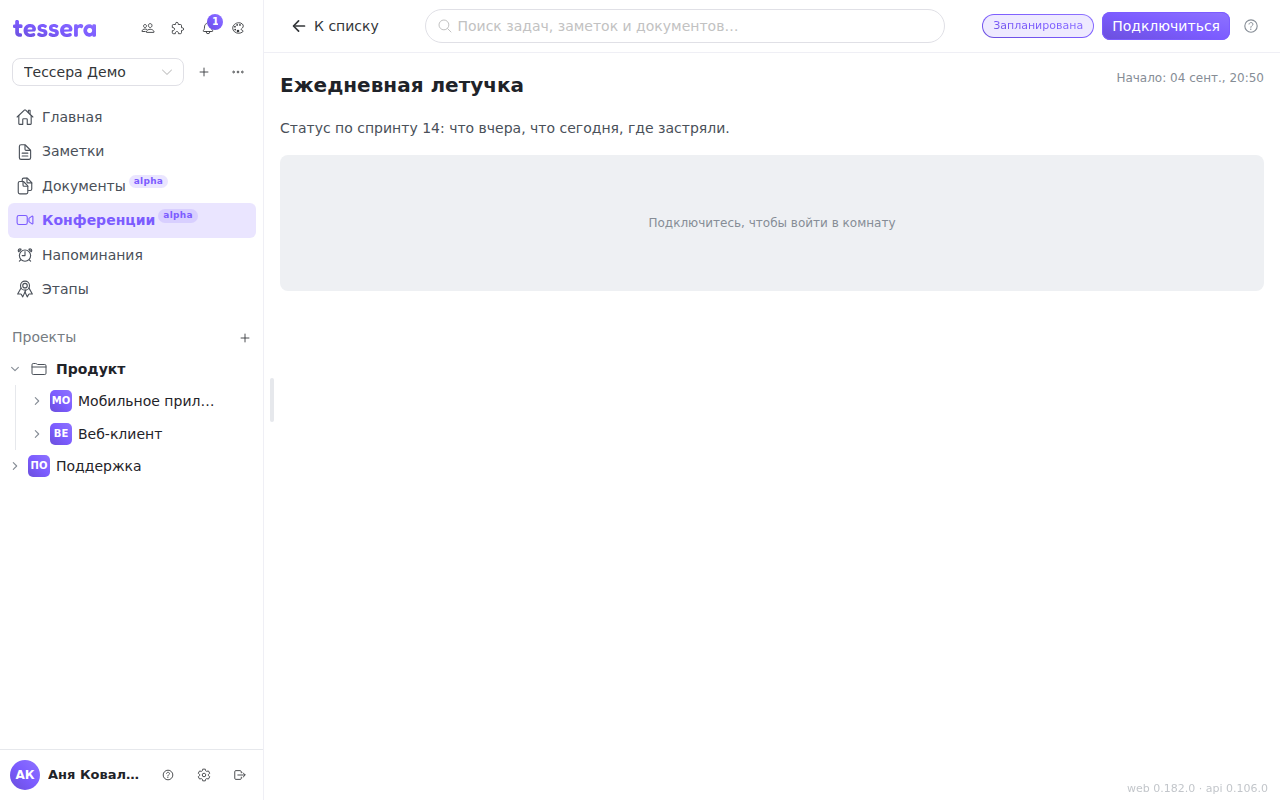
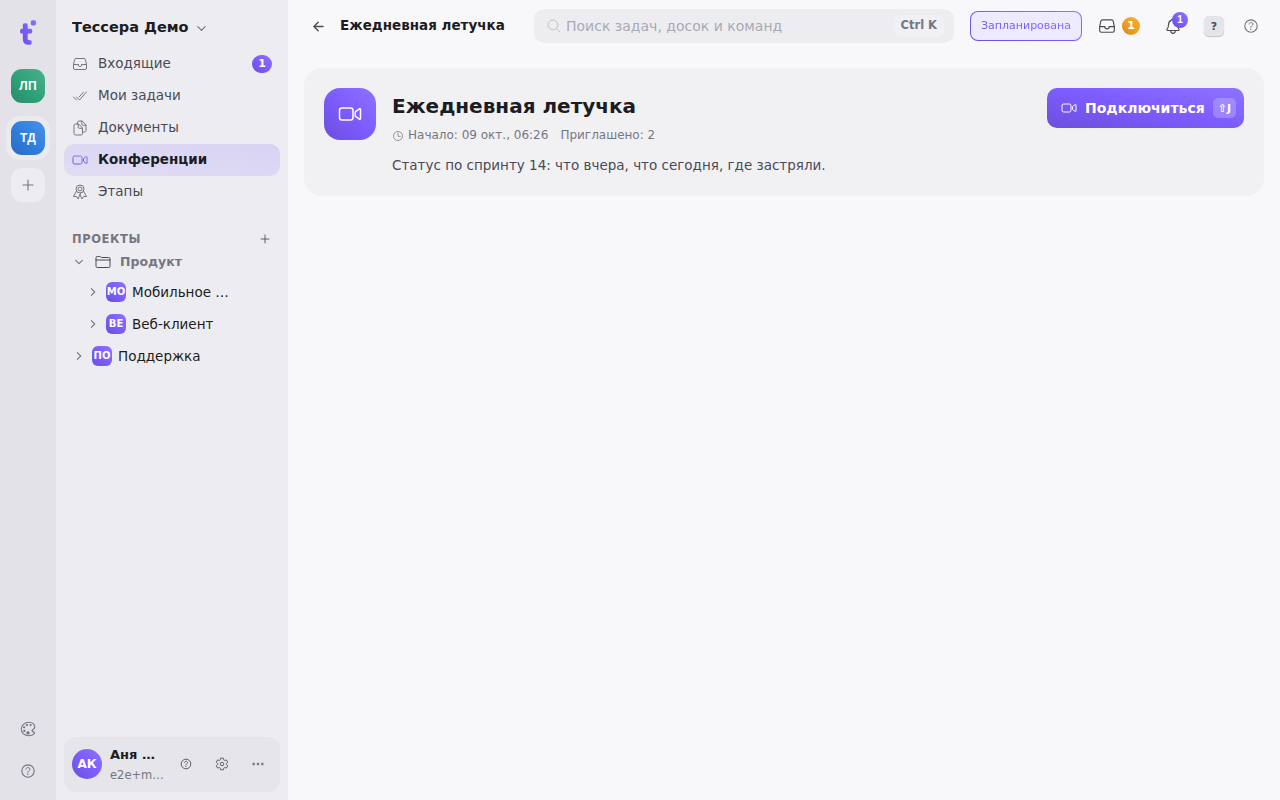
docs(help): конференции, колокольчик, справка (F1, «Статья помогла?») и раздел «Справка» админки на языке v2 — статьи и скриншоты (#3107)
- Конференции: список по дням, «Мгновенная» N J, «Запланировать» N V, ⇧J,
  лобби, звонок (сетка / говорящий, док, клавиши ⌘D ⌘E ⌘⇧H), мини-окно
  (⌘⇧M, прилипание к краям); скриншоты списка и лобби ru/en.
- Уведомления: колокольчик в шапке — фильтры, «Новые / Ранее», клавиши.
- Первые шаги: F1, поиск в справке, «Статья помогла?»; админка — «Справка».
- Список конференций: короткий ярлык фильтра «Идут», шапка не переносится
  (фильтр сжимается первым), клавиши «Мгновенной» — в подсказке.

diff --git a/frontend/src/views/ConferencesView.vue b/frontend/src/views/ConferencesView.vue
@@ -647,10 +647,11 @@ onBeforeUnmount(() => mq?.removeEventListener?.('change', onMq))
             >
               <n-icon :component="FlashOutline" :size="15" />
               {{ $t('conferences.instant.button') }}
-              <ShortcutKeys id="meet.instant" bare />
             </button>
           </template>
-          {{ $t('conferences.instant.hint') }}
+          <span class="tip">
+            {{ $t('conferences.instant.hint') }} <ShortcutKeys id="meet.instant" bare />
+          </span>
         </n-tooltip>
         <button
           ref="scheduleBtn"
@@ -1066,9 +1067,22 @@ onBeforeUnmount(() => mq?.removeEventListener?.('change', onMq))
 .head {
   display: flex;
   align-items: center;
-  gap: 12px;
-  flex-wrap: wrap;
+  gap: 10px;
   margin-bottom: 18px;
+}
+.head > * {
+  flex: none;
+}
+/* The filter gives way first when the row is tight — it scrolls, the buttons
+   keep their labels. */
+.head > .seg {
+  flex: 0 1 auto;
+  min-width: 0;
+}
+.tip {
+  display: inline-flex;
+  align-items: center;
+  gap: 8px;
 }
 .h {
   margin: 0;
@@ -1096,7 +1110,7 @@ onBeforeUnmount(() => mq?.removeEventListener?.('change', onMq))
 .seg-btn {
   flex: none;
   height: 28px;
-  padding: 0 10px;
+  padding: 0 9px;
   border: 0;
   border-radius: 7px;
   background: transparent;
@@ -1430,6 +1444,9 @@ onBeforeUnmount(() => mq?.removeEventListener?.('change', onMq))
   }
 }
 @media (max-width: 760px) {
+  .head {
+    flex-wrap: wrap;
+  }
   .h {
     font-size: 20px;
     flex: 1 0 100%;

diff --git a/docs/help/conferences/conferences.md b/docs/help/conferences/conferences.md
@@ -2,8 +2,8 @@
 title: Конференции
 category: Конференции
 order: 65
-keywords: конференции, звонок, созвон, летучка, видео, аудио, микрофон, камера, демонстрация экрана, показ экрана, чат, приглашение, ведущий, кик, заглушить, качество связи, свёрнутый режим, мини-окно
-updated: 2026-09-09
+keywords: конференции, встречи, звонок, созвон, летучка, мгновенная встреча, видео, аудио, микрофон, камера, демонстрация экрана, показ экрана, чат, приглашение, ведущий, кик, заглушить, качество связи, свёрнутый режим, мини-окно, клавиши
+updated: 2026-10-08
 ---
 
 Раздел **«Конференции»** — аудио- и видеозвонки внутри Тессеры: ежедневные летучки, разбор задачи, демо. Звонок не уводит из трекера — конференцию можно привязать к задаче, а обсуждение остаётся в чате комнаты рядом с работой, а не в стороннем мессенджере. Раздел доступен и в браузере, и в мобильном приложении (на телефоне часть панелей — чат и участники — открывается снизу листами).
@@ -12,31 +12,36 @@ updated: 2026-09-09
 
 ## Список конференций
 
-Слева в боковой панели — пункт **«Конференции»**. Список делится фильтром на **«Идут сейчас»**, **«Запланированы»** и **«Завершённые»**: идущий звонок видно сразу, к нему можно присоединиться одним кликом.
+Слева в боковой панели — пункт **«Конференции»**. Наверху списка — звонок, который **идёт прямо сейчас**: отдельная карточка с меткой «идёт · N мин» и кнопкой **«Присоединиться»**. Ниже — запланированные, по дням: **«Сегодня»**, **«Завтра»** и дальше; у ближайшей встречи время подсвечено и есть кнопка **«Войти»**. Встречи без времени, запланированные на прошедший день, но так и не начавшиеся, и завершённые — отдельными группами в конце. Сегменты над списком — **Все · Идут · Запланированные · Завершённые**.
 
-Кнопка **«Запланировать»** создаёт конференцию: название, необязательное описание, время начала и, если нужно, **задача**, к которой звонок относится. Время начала — это ориентир для участников, а не замок: конференцию можно открыть и раньше.
+У строки справа — кнопка ссылки (скопировать адрес встречи, чтобы отправить его в чат) и меню **«⋯»**. Удаление — последний пункт меню и двухшаговый: первое нажатие взводит его, второе удаляет; удаление необратимо, вместе со встречей уходят её чат и записи.
 
-Конференция **не одноразовая**. Когда последний участник вышел, она возвращается в «Запланированы» и в неё можно зайти снова — одну и ту же комнату удобно держать под постоянную летучку. Необратимо только удаление.
+**«Запланировать»** (клавиши <kbd>N</kbd> затем <kbd>V</kbd>) открывает форму рядом с кнопкой: название, время начала, описание и срок хранения записей. Время начала — ориентир для участников, а не замок: конференцию можно открыть и раньше. **«Мгновенная»** (<kbd>N</kbd> затем <kbd>J</kbd>) создаёт встречу без времени и сразу заводит вас в неё — когда созвониться нужно прямо сейчас. Клавиша <kbd>⇧</kbd> <kbd>J</kbd> на этой странице заводит в идущий звонок, а если такого нет — в ближайший запланированный.
+
+Конференция **не одноразовая**. Когда последний участник вышел, она возвращается в «Запланированные» и в неё можно зайти снова — одну и ту же комнату удобно держать под постоянную летучку. Необратимо только удаление.
 
 ## В комнате
 
-![Комната конференции до подключения](../assets/conference-room-light.png)
+![Конференция до подключения: карточка встречи с кнопкой «Подключиться»](../assets/conference-room-light.png)
 
-Открытая конференция сначала показывает **лобби**: видно, кто уже в комнате, а микрофон и камера ещё не включены. Кнопка **«Подключиться»** заводит устройства и ставит вас в звонок.
+Открытая конференция сначала показывает **лобби** — карточку встречи: название, время, кто приглашён, описание. Кнопка **«Подключиться»** (<kbd>⇧</kbd> <kbd>J</kbd>) заводит устройства и ставит вас в звонок. В шапке приложения в это время — стрелка назад к списку, название встречи и, пока звонок идёт, сколько он уже длится; у ведущего справа — **«Завершить»**.
 
 Браузер спросит разрешение на микрофон и камеру — без него звонок не состоится. Разрешение выдаётся сайту один раз; если вы случайно отказали, вернуть доступ можно в настройках сайта в адресной строке браузера.
 
-Большая плитка **следует за говорящим**: кто громче, тот и на сцене, а во время демонстрации экрана сцену занимает показ. В тишине на сцене остаётся тот, кто говорил последним, — плитки не «прыгают» на каждый вздох. У кого нет камеры, показывается круглой аватаркой, как везде в Тессере.
+Звонок занимает всю рабочую область. Раскладка переключается над плитками: **сеткой** — все участники равными плитками, или **«говорящий крупно»** — большая плитка следует за говорящим, остальные — полосой под ней; выбор запоминается. Во время демонстрации экрана сцену всегда занимает показ. В тишине на сцене остаётся тот, кто говорил последним, — плитки не «прыгают» на каждый вздох. Плитка без видео окрашена в тон участника, у говорящего — светящееся кольцо, у поднявшего руку — жёлтый значок в углу.
 
-**Нижний тулбар:**
+**Панель кнопок внизу:**
 
-- **микрофон** — включить и выключить. Кнопка заполняется по уровню вашего голоса: это самопроверка громкости, по ней видно, что вас слышно, ещё до того, как кто-то об этом скажет;
-- **камера** — включить и выключить видео;
+- **микрофон** (<kbd>Ctrl</kbd>/<kbd>⌘</kbd> + <kbd>D</kbd>) — включить и выключить. Кнопка заполняется по уровню вашего голоса: это самопроверка громкости, по ней видно, что вас слышно, ещё до того, как кто-то об этом скажет;
+- **камера** (<kbd>Ctrl</kbd>/<kbd>⌘</kbd> + <kbd>E</kbd>) — включить и выключить видео;
 - **демонстрация экрана** — см. ниже;
+- **запись** — у ведущего и модератора, см. «Запись»;
 - **поднять руку** — заметная отметка на плитке, чтобы не перебивать говорящего;
 - **выбор устройств** — какой микрофон, какая камера, какой динамик;
-- **полный экран** — на плитке сцены; особенно нужен, когда смотрите чужой показ экрана;
-- **выйти** и, у создателя, **завершить**.
+- **участники** и **чат** — открывают правую панель на нужной вкладке (повторное нажатие её прячет);
+- **«Выйти»** (<kbd>Ctrl</kbd>/<kbd>⌘</kbd> + <kbd>⇧</kbd> + <kbd>H</kbd>).
+
+Реакции в звонке на макете уже нарисованы, но ещё не работают — кнопка видна, неактивна и подписана «Скоро». **Полный экран** — кнопка в углу сцены; особенно нужен, когда смотрите чужой показ экрана.
 
 На плитке участника появляется **значок связи**, когда канал у него плохой: прежде чем переспрашивать «вас рвёт?», видно, у кого именно проблема.
 
@@ -48,9 +53,9 @@ updated: 2026-09-09
 
 ## Участники, чат и приглашения
 
-Справа — рейка с двумя вкладками: **«В комнате»** и **«Чат»**.
+Справа — панель с двумя вкладками: **«В комнате»** и **«Чат»**. Её можно спрятать кнопкой над плитками — сцена займёт всю ширину; выбор запоминается.
 
-**«В комнате»** — кто сейчас в звонке, и отдельным списком **«Приглашены»** — те, кого позвали, но кто ещё не пришёл. Кнопка **«Пригласить»** здесь же, у вкладок: приглашённый получает уведомление со ссылкой прямо в конференцию.
+**«В комнате»** — кто сейчас в звонке, и отдельным списком **«Приглашены»** — те, кого позвали, но кто ещё не пришёл. Кнопка **«Пригласить»** (человечек с плюсом) здесь же, у вкладок: приглашённый получает уведомление со ссылкой прямо в конференцию.
 
 Громкость каждого участника регулируется **у вас** и только у вас — это не влияет на то, как его слышат остальные.
 
@@ -66,9 +71,9 @@ updated: 2026-09-09
 
 ## Свёрнутый режим
 
-Из конференции можно уйти в задачи или документы, **не выходя из звонка**: комната сворачивается в плавающее окошко.
+Из конференции можно уйти в задачи или документы, **не выходя из звонка**: кнопка «Свернуть» над плитками или <kbd>Ctrl</kbd>/<kbd>⌘</kbd> + <kbd>⇧</kbd> + <kbd>M</kbd> возвращает на экран, откуда вы пришли, а звонок продолжается в плавающем окошке.
 
-В окошке — говорящий или миниатюра показа экрана; при наведении снизу появляется мини-тулбар (микрофон, камера, поднять руку, выйти), а по центру — кнопка **«развернуть»**, возвращающая в полноразмерную комнату. Окно перетаскивается мышью и меняет размер за любой край; положение и размер запоминаются.
+У окошка три части. Шапка — название встречи и сколько вы уже в звонке, за неё окно перетаскивается; кнопка в шапке (или та же <kbd>Ctrl</kbd>/<kbd>⌘</kbd> + <kbd>⇧</kbd> + <kbd>M</kbd>) разворачивает звонок обратно. Посередине — две плитки: говорящий (или показ экрана) и следующий участник. Внизу — микрофон, камера, рука, сколько ещё людей в звонке и **«Выйти»**. Отпущенное рядом с краем экрана окно прилипает к нему; размер меняется за любой край. Положение и размер запоминаются. Клавиши микрофона, камеры и выхода работают и в свёрнутом режиме.
 
 Свёрнутый звонок **переживает перезагрузку страницы**: активная конференция запоминается, и после обновления клиент сам возвращается в неё. Само соединение при этом пересобирается заново — секундная пауза в звуке здесь нормальна.
 
@@ -78,9 +83,9 @@ updated: 2026-09-09
 
 Разговор можно записать целиком — одним видеофайлом со всеми участниками и показом экрана. Пишет **сервер**, а не ваш браузер: качество записи не зависит от вашего канала, а вкладку можно закрыть.
 
-Включает и останавливает запись **ведущий или модератор** — кнопкой в тулбаре комнаты. Пока идёт запись, **красную точку видят все участники**: незаметно записать разговор нельзя, и это специально.
+Включает и останавливает запись **ведущий или модератор** — кнопкой на панели внизу комнаты. Пока идёт запись, **красную метку со временем записи видят все участники** — и в комнате, и в свёрнутом окне: незаметно записать разговор нельзя, и это специально.
 
-Готовые записи лежат списком **под комнатой**: скачать, посмотреть размер и длительность. Файл появляется в списке через несколько секунд после остановки — столько занимает сборка видео.
+Готовые записи лежат списком **под карточкой встречи**: скачать, посмотреть размер и длительность. Файл появляется в списке через несколько секунд после остановки — столько занимает сборка видео.
 
 **Срок хранения выбирается заранее**, при планировании конференции: по умолчанию запись живёт 30 дней, после чего удаляется сама. Это решается до встречи, а не после — чтобы не выбирать судьбу файла, глядя на таймер. Ноль означает «хранить бессрочно». Срок можно поменять и позже, в настройках конференции, но подействует он только на будущие записи: у готовой записи дата удаления проставлена в момент её завершения.
 

diff --git a/docs/help/conferences/conferences.en.md b/docs/help/conferences/conferences.en.md
@@ -2,8 +2,8 @@
 title: Conferences
 category: Conferences
 order: 65
-keywords: conferences, call, meeting, standup, video, audio, microphone, camera, screen share, screen sharing, chat, invite, host, kick, mute, connection quality, minimised, floating window
-updated: 2026-09-09
+keywords: conferences, meetings, call, meeting, standup, instant meeting, shortcuts, video, audio, microphone, camera, screen share, screen sharing, chat, invite, host, kick, mute, connection quality, minimised, floating window
+updated: 2026-10-08
 ---
 
 The **Conferences** section is audio and video calling inside Tessera: daily stand-ups, walking through a task, demos. A call does not take you out of the tracker — a conference can be pinned to a task, and the discussion stays in the room's chat next to the work rather than in a separate messenger. The section is available both in the browser and in the mobile app (on a phone some panels — chat and participants — open as bottom sheets).
@@ -12,33 +12,38 @@ The **Conferences** section is audio and video calling inside Tessera: daily sta
 
 ## The list
 
-**Conferences** sits in the sidebar. The list is split by a filter into **Live now**, **Scheduled** and **Finished**, so a call in progress is visible at once and one click joins it.
+**Conferences** sits in the sidebar. At the top of the list is the call that is **on right now**: a card of its own, marked "live · N min", with a **Join** button. Below are the scheduled ones, by day: **Today**, **Tomorrow** and on; the nearest meeting has its time highlighted and a **Join** button. Meetings without a time, those planned for a day that has passed but never started, and finished ones come last, each in a group of its own. The segments above the list are **All · Live · Scheduled · Finished**.
 
-**Schedule** creates a conference: a title, an optional description, a start time and — if it helps — the **task** the call is about. The start time is a hint for the participants, not a lock: a conference can be opened earlier.
+At the right of a row are a link button (copy the meeting's address to drop it into a chat) and a **⋯** menu. Deleting is the menu's last item and takes two presses: the first arms it, the second deletes; it cannot be undone, and the meeting's chat and recordings go with it.
 
-A conference is **not single-use**. When the last participant leaves it goes back to *Scheduled* and can be entered again — one room is a convenient home for a standing daily meeting. Only deletion is irreversible.
+**Schedule** (keys <kbd>N</kbd> then <kbd>V</kbd>) opens a form next to the button: a title, a start time, a description and how long recordings are kept. The start time is a hint for the participants, not a lock: a conference can be opened earlier. **Instant** (<kbd>N</kbd> then <kbd>J</kbd>) creates a meeting with no time and takes you straight into it — for when you need to talk right now. On this page <kbd>⇧</kbd> <kbd>J</kbd> takes you into the call that is on, or, if there is none, into the nearest scheduled one.
+
+A conference is **not single-use**. When the last participant leaves it goes back to _Scheduled_ and can be entered again — one room is a convenient home for a standing daily meeting. Only deletion is irreversible.
 
 ## In the room
 
-![A conference room before joining](../assets/conference-room-light.png)
+![A conference before joining: the meeting card with Join](../assets/conference-room-light.png)
 
-An open conference starts at the **lobby**: you can see who is already in the room, and your microphone and camera are still off. **Join** opens the devices and puts you into the call.
+An opened conference first shows the **lobby** — the meeting's card: title, time, who is invited, the description. **Join** (<kbd>⇧</kbd> <kbd>J</kbd>) turns your devices on and puts you in the call. Meanwhile the app's header holds an arrow back to the list, the meeting's name and, while the call is on, how long it has been running; the host has **End** on the right.
 
-The browser will ask for microphone and camera permission — without it the call cannot happen. Permission is granted to the site once; if you dismissed it by accident, you can restore access in the site settings in the address bar.
+The browser will ask for permission to use the microphone and camera — without it the call cannot happen. The permission is granted to the site once; if you refused it by accident, restore it in the site settings in the browser's address bar.
 
-The main tile **follows whoever is speaking**: the loudest voice takes the stage, and a screen share takes it instead while one is running. In silence the stage keeps the last person who spoke, so the tiles do not jump on every breath. Anyone without a camera is shown as a round avatar, the way they are everywhere in Tessera.
+The call takes the whole working area. The layout switch is above the tiles: **grid** — everyone as equal tiles, or **speaker** — a large tile follows whoever is speaking, the rest in a strip under it; the choice is remembered. During a screen share the stage always shows the share. In silence the stage stays on whoever spoke last — the tiles do not jump at every breath. A tile without video is tinted in the person's own colour, the speaker gets a glowing ring, and a raised hand is a yellow badge in the corner.
 
-**The bottom toolbar:**
+**The controls at the bottom:**
 
-- **microphone** — on and off. The button fills with the level of your own voice: it is a self-check, and it shows that you are audible before anybody has to tell you that you are not;
-- **camera** — video on and off;
-- **screen share** — see below;
-- **raise hand** — a visible mark on your tile, so you do not have to cut in;
-- **devices** — which microphone, which camera, which speakers;
-- **fullscreen** — on the stage tile; you want it most while watching somebody else's screen;
-- **leave**, and for the creator, **end**.
+- **microphone** (<kbd>Ctrl</kbd>/<kbd>⌘</kbd> + <kbd>D</kbd>) — on and off. The button fills with the level of your voice: a self-check of your volume, so you can see you are being heard before anyone has to say so;
+- **camera** (<kbd>Ctrl</kbd>/<kbd>⌘</kbd> + <kbd>E</kbd>) — video on and off;
+- **screen sharing** — see below;
+- **recording** — for the host and moderators, see "Recording";
+- **raise hand** — a visible mark on your tile, so you do not have to talk over the speaker;
+- **devices** — which microphone, which camera, which speaker;
+- **participants** and **chat** — open the right panel on that tab (pressing again hides it);
+- **Leave** (<kbd>Ctrl</kbd>/<kbd>⌘</kbd> + <kbd>⇧</kbd> + <kbd>H</kbd>).
 
-A **connection icon** appears on a participant's tile when their link is poor: before anyone asks "are you breaking up?", it is clear whose side the trouble is on.
+Reactions are already drawn in the design but do not work yet — the button is visible, inactive and labelled "Soon". **Full screen** is a button in the stage's corner; it is most useful when watching someone else's screen.
+
+A **connection badge** appears on a participant's tile when their link is poor: before asking "you're breaking up?", you can see whose line it is.
 
 ## Screen sharing
 
@@ -48,13 +53,13 @@ The person sharing always sees a sharper picture than everybody else, and that i
 
 ## People, chat and invitations
 
-On the right is a rail with two tabs: **In the room** and **Chat**.
+On the right is a panel with two tabs: **In the room** and **Chat**. A button above the tiles hides it — the stage takes the whole width; the choice is remembered.
 
-**In the room** lists who is in the call right now, and, as a separate list, **Invited** — the people who were asked but have not arrived. The **Invite** button is right there by the tabs: an invitee gets a notification with a link straight into the conference.
+**In the room** lists who is in the call now, and a separate **Invited** list shows people who were asked but have not arrived yet. **Invite** (the person with a plus) is right there by the tabs: the invitee gets a notification with a link straight into the conference.
 
-Each participant's volume is adjusted **on your side** and only there — it does not change how anybody else hears them.
+Each participant's volume is set **on your side** and only there — it does not change how anyone else hears them.
 
-**Chat** is this conference's conversation: the links people drop mid-call, and attachments. An image can be opened large **without leaving the call**. The chat history stays with the conference, so what was said can be revisited afterwards.
+**Chat** is the conference's own conversation: links shared on the go, and attachments. A picture opens large **without leaving the call**. The chat history stays with the conference, so you can come back to what was said.
 
 ## Host and moderation
 
@@ -66,21 +71,21 @@ Every permission check happens **on the server**, which is what makes "mute for 
 
 ## Minimised mode
 
-You can go off to tasks or documents **without leaving the call**: the room folds into a floating window.
+You can go off to tasks or documents **without leaving the call**: the Minimise button above the tiles or <kbd>Ctrl</kbd>/<kbd>⌘</kbd> + <kbd>⇧</kbd> + <kbd>M</kbd> takes you back to the screen you came from, and the call carries on in a floating window.
 
-The window shows the current speaker, or a thumbnail of the screen being shared; hovering brings up a small toolbar along the bottom (microphone, camera, raise hand, leave) and an **expand** button in the middle that takes you back to the full room. The window can be dragged with the mouse and resized from any edge; its position and size are remembered.
+The window has three parts. The head — the meeting's name and how long you have been in the call — is what you drag it by; its button (or the same <kbd>Ctrl</kbd>/<kbd>⌘</kbd> + <kbd>⇧</kbd> + <kbd>M</kbd>) brings the call back full size. In the middle are two tiles: the speaker (or the screen share) and the next participant. At the foot: microphone, camera, hand, how many more people are in the call, and **Leave**. Dropped near an edge of the screen, the window sticks to it; it resizes from any edge. Its position and size are remembered. The microphone, camera and leave keys work while minimised too.
 
-A minimised call **survives a page reload**: the active conference is remembered and the client returns to it by itself after a refresh. The connection is rebuilt from scratch in the process, so a second of silence there is normal.
+A minimised call **survives a page reload**: the active conference is remembered, and after a refresh the client walks back into it on its own. The connection itself is rebuilt — a second of silence is normal here.
 
-You leave a call only with **Leave** (in the room or in the mini window) or by closing the tab. Moving to another section does not drop the call — and it does not mislead the others either: if the tab closes, you disappear from the list on your own.
+You only leave a call with **Leave** (in the room or in the mini window) or by closing the tab. Switching to another section does not drop the call — and it does not mislead the others either: if the tab closes, you disappear from the list on your own.
 
 ## Recording
 
 A call can be recorded whole — a single video file with every participant and the screen share in it. The **server** does the recording, not your browser: the quality does not depend on your uplink, and you can close the tab.
 
-Recording is started and stopped by the **host or a moderator**, with a button in the room toolbar. While it runs, **every participant sees a red dot**: a call cannot be recorded unnoticed, and that is deliberate.
+Recording is started and stopped by the **host or a moderator**, with a button on the panel at the bottom of the room. While it runs, **every participant sees a red label with the recording's time** — in the room and in the minimised window: a call cannot be recorded unnoticed, and that is deliberate.
 
-Finished recordings sit in a list **under the room**: download, size and duration. A file appears there a few seconds after you stop — that is how long muxing the video takes.
+Finished recordings sit in a list **under the meeting's card**: download, size and duration. A file appears there a few seconds after you stop — that is how long muxing the video takes.
 
 **Retention is chosen up front**, when the conference is scheduled: by default a recording lives for 30 days and is then deleted by itself. It is decided before the meeting rather than after, so nobody has to rule on a file's fate while watching a countdown. Zero means "keep indefinitely". The setting can be changed later in the conference settings, but it only applies to future recordings: a finished recording gets its deletion date stamped when it completes.
 

diff --git a/docs/help/notifications/notifications.md b/docs/help/notifications/notifications.md
@@ -8,13 +8,21 @@ updated: 2026-10-08
 
 Уведомления в Tessera бывают двух видов, и настраивается только второй.
 
-**Внутренние** — колокольчик на нижней панели: назначили задачу, ответили в комментарии, упомянули. Они приходят всегда, отключить их нельзя, счётчик у колокольчика показывает непрочитанные.
+**Внутренние** — колокольчик в шапке приложения: назначили задачу, ответили в комментарии, упомянули, пригласили в конференцию, отчиталась синхронизация с GitLab. Они приходят всегда, отключить их нельзя, счётчик у колокольчика показывает непрочитанные. Как устроена сама лента — в разделе «Колокольчик» ниже.
 
 **Внешние** — то же событие, доставленное наружу: письмом, в Telegram, вебхуком в свой сервис. По умолчанию наружу не уходит ничего: сначала заводится **канал** (куда доставлять), потом **правило** (что именно в него отправлять).
 
 Всё это живёт в **«Настройках»** (шестерёнка в подвале боковой панели или клавиши `G` затем `,`) — раздел **«Уведомления»** в колонке слева. Все изменения здесь сохраняются сразу, кнопки «Сохранить» нет.
 
 ![Раздел «Уведомления»: список каналов доставки](../assets/notifications-channels-light.png)
+
+## Колокольчик
+
+Колокольчик открывает ленту поверх текущего экрана (или клавиши <kbd>G</kbd> затем <kbd>N</kbd>). Сверху — фильтры **Все · Упоминания · Назначения · GitLab**, у каждого число непрочитанных. Лента делится на **«Новые»** — непрочитанные, на мягком акцентном фоне с точкой, — и **«Ранее»**. В строке — кто это сделал (жирным), что произошло, о какой задаче речь (под строкой) или цитата комментария, и когда.
+
+Клик по строке отмечает её прочитанной и открывает задачу или конференцию — даже если она в другом пространстве. Пока лента открыта, работают клавиши: <kbd>↑</kbd> <kbd>↓</kbd> — выбрать строку, <kbd>↵</kbd> — открыть, <kbd>E</kbd> — отметить прочитанной, <kbd>⇧</kbd> <kbd>E</kbd> — прочитать все. Шестерёнка в шапке ленты ведёт в настройки уведомлений.
+
+Лента показывает последние 50 уведомлений. Отдельная страница со всей историей и ответ «Принять / Отклонить» на приглашение во встречу прямо из ленты пока в работе — эти кнопки видны, но неактивны и подписаны «Скоро».
 
 ## Каналы доставки
 

diff --git a/docs/help/notifications/notifications.en.md b/docs/help/notifications/notifications.en.md
@@ -8,13 +8,21 @@ updated: 2026-10-08
 
 Notifications in Tessera come in two kinds, and only the second is configurable.
 
-**Internal** — the bell in the bottom bar: you were assigned a task, someone replied to your comment, you were mentioned. They always come, they can't be turned off, and the counter on the bell shows the unread ones.
+**Internal** — the bell in the app's header: you were assigned a task, someone replied to your comment, you were mentioned, invited to a conference, a GitLab sync reported back. They always come, they can't be turned off, and the counter on the bell shows the unread ones. How the feed itself works is under "The bell" below.
 
 **External** — the same event delivered outward: by email, to Telegram, by a webhook to your own service. By default nothing goes out: first you set up a **channel** (where to deliver), then a **rule** (what exactly to send to it).
 
 All of this lives in **Settings** (the gear in the sidebar footer, or `G` then `,`) — the **Notifications** section in the column on the left. Everything here is saved as you change it; there is no Save button.
 
 ![The Notifications section: the list of delivery channels](../assets/notifications-channels-light.png)
+
+## The bell
+
+The bell opens the feed over the current screen (or keys <kbd>G</kbd> then <kbd>N</kbd>). At the top are the filters **All · Mentions · Assigned · GitLab**, each with its unread count. The feed is split into **New** — unread, on a soft accent with a dot — and **Earlier**. A row says who did it (in bold), what happened, which task it is about (under the line) or a quote of the comment, and when.
+
+Clicking a row marks it read and opens the task or the conference — even in another workspace. While the feed is open these keys work: <kbd>↑</kbd> <kbd>↓</kbd> — pick a row, <kbd>↵</kbd> — open it, <kbd>E</kbd> — mark it read, <kbd>⇧</kbd> <kbd>E</kbd> — mark all read. The gear in the feed's head leads to the notification settings.
+
+The feed shows the latest 50 notifications. A separate page with the whole history and answering a meeting invitation with "Accept / Decline" right from the feed are in the works — those buttons are visible but inactive and labelled "Soon".
 
 ## Delivery channels
 

diff --git a/docs/help/start/first-steps.en.md b/docs/help/start/first-steps.en.md
@@ -3,7 +3,7 @@ title: First steps
 category: Getting started
 order: 10
 keywords: start, sign up, workspace, project, board, onboarding, guide
-updated: 2026-08-26
+updated: 2026-10-08
 ---
 
 Tessera is a task tracker: boards with tasks, documents, notes and reminders. This article walks the path from an empty account to your first task on a board.
@@ -37,4 +37,6 @@ One of the board's columns is the **completing** one: a task that lands in it co
 - [Milestones](/help/milestones) — release milestones and progress toward them.
 - [FAQ](/help/faq) — short answers to the things people trip over most often.
 
-At the bottom of the sidebar there is a **Help** button with a question mark, and inside it two items. **Get started** is an interactive guide that walks you through the interface right inside the app; you can launch it at any time and go through it again. **Help centre** is this help: it opens as a window over your current screen, so the board you called it from never goes away.
+At the bottom of the sidebar there is a **Help** button with a question mark, and inside it two items. **Get started** is an interactive guide that walks you through the interface right inside the app; you can launch it at any time and go through it again. **Help centre** is this help: it opens as a window over your current screen, so the board you called it from never goes away. Faster still is <kbd>F1</kbd>, which also closes it.
+
+In the help window the sections and articles are on the left, the search is at the top (<kbd>/</kbd> puts the cursor there, <kbd>↑</kbd> <kbd>↓</kbd> and <kbd>↵</kbd> pick a result), and the article's contents are on the right. At the bottom of an article you can say **whether it helped**: one answer per article, and administrators see the totals under Administration → Help, which tells them which articles need rewriting.

diff --git a/docs/help/admin/admin-users.md b/docs/help/admin/admin-users.md
@@ -21,7 +21,7 @@ platforms: web
 
 ## Как устроен экран
 
-Слева — колонка разделов: **«Пользователи»**, **«Сервер»** (адрес экземпляра и версии API и веб-клиента), **«Интеграции»** ([вход через GitLab](/help/admin-gitlab-oauth)) и **«Фоновые задания»** — последний пункт открывает [окно заданий](/help/admin-jobs). Открытый раздел записан в адресе, так что ссылку на него можно сохранить. Пункты с пометкой **«скоро»** — приглашения по всем пространствам, роли и права — ещё в работе.
+Слева — колонка разделов: **«Пользователи»**, **«Сервер»** (адрес экземпляра и версии API и веб-клиента), **«Интеграции»** ([вход через GitLab](/help/admin-gitlab-oauth)), **«Справка»** (ответы читателей на «Статья помогла?» — по статьям и языкам, доля «да» полосой) и **«Фоновые задания»** — последний пункт открывает [окно заданий](/help/admin-jobs). Открытый раздел записан в адресе, так что ссылку на него можно сохранить. Пункты с пометкой **«скоро»** — приглашения по всем пространствам, роли и права — ещё в работе.
 
 ## Список и поиск
 

diff --git a/docs/help/admin/admin-users.en.md b/docs/help/admin/admin-users.en.md
@@ -21,7 +21,7 @@ Instance admin rights give you: this screen, its **Integrations** section (sign-
 
 ## How the screen is laid out
 
-On the left is the column of sections: **Users**, **Server** (the instance address and the API and web client versions), **Integrations** ([sign-in through GitLab](/help/admin-gitlab-oauth)) and **Background jobs** — the last item opens the [jobs window](/help/admin-jobs). The open section is kept in the address, so you can bookmark it. Items marked **soon** — invitations across all workspaces, roles and permissions — are still in the works.
+On the left is the column of sections: **Users**, **Server** (the instance address and the API and web client versions), **Integrations** ([sign-in through GitLab](/help/admin-gitlab-oauth)), **Help** (readers' answers to "Was this article helpful?" — per article and language, the share of "yes" as a bar) and **Background jobs** — the last item opens the [jobs window](/help/admin-jobs). The open section is kept in the address, so you can bookmark it. Items marked **soon** — invitations across all workspaces, roles and permissions — are still in the works.
 
 ## The list and search
 
